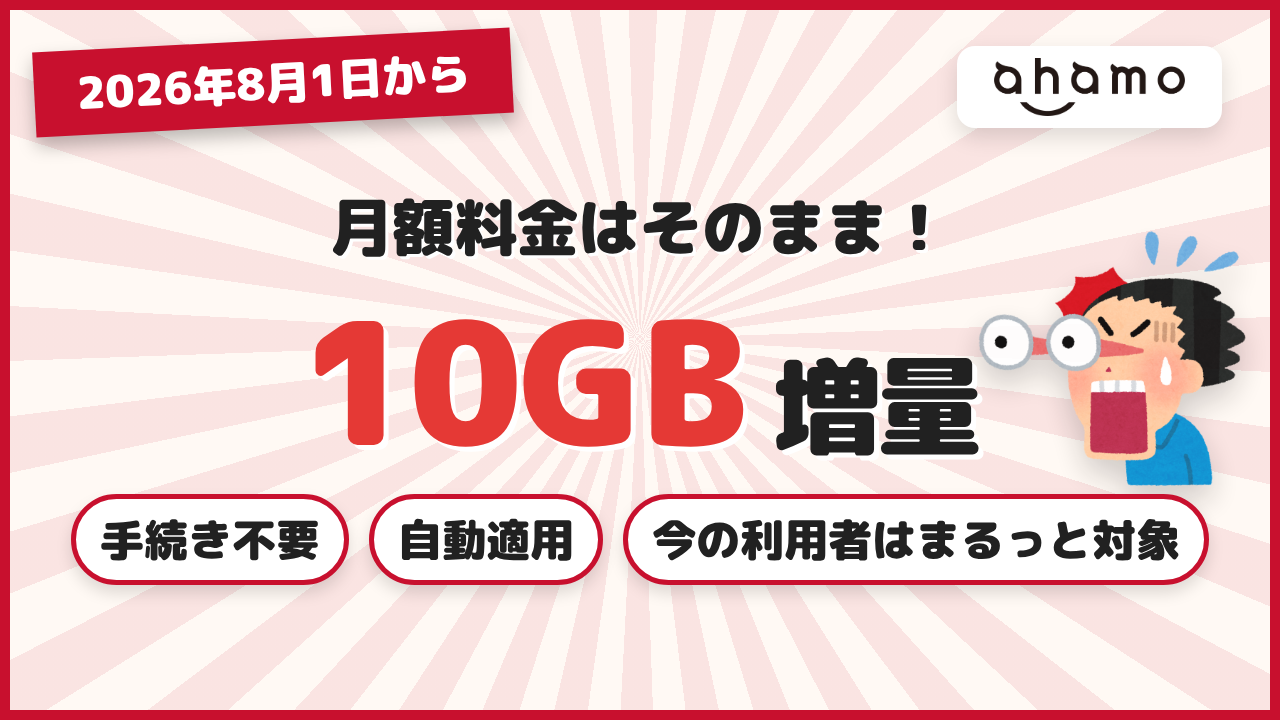
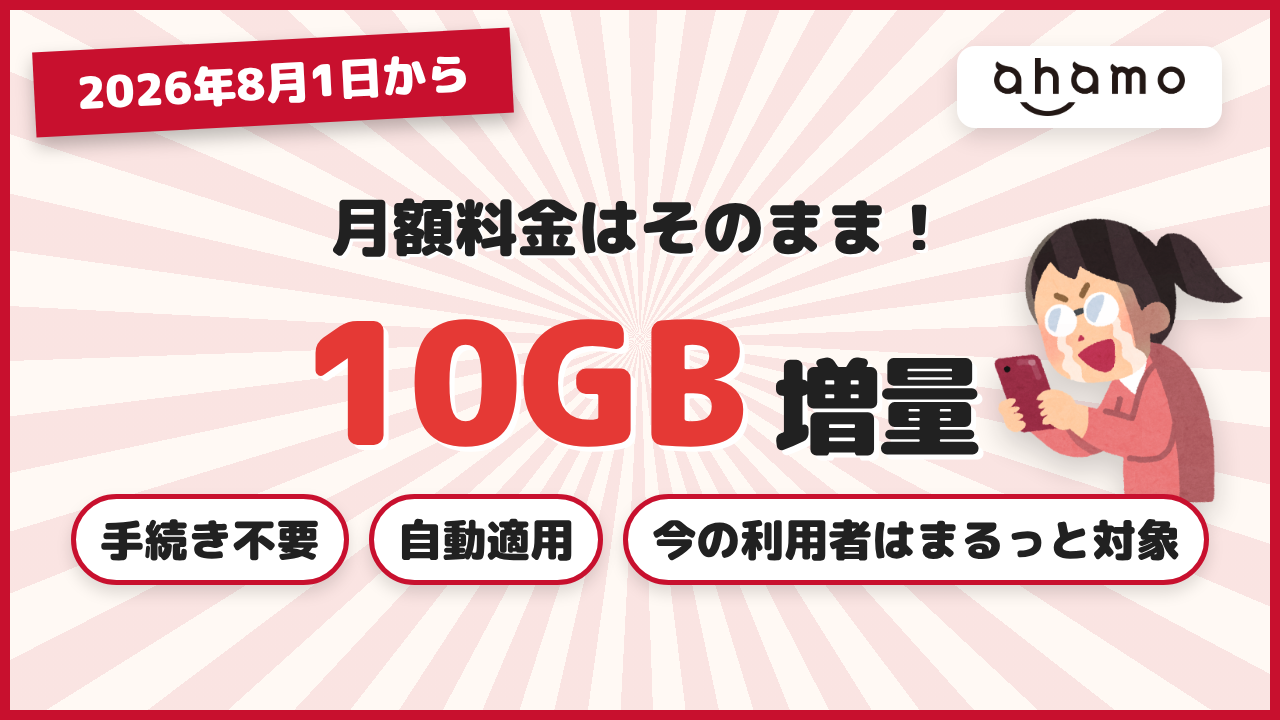
改修

Changed region(s): [[0.75, 0.3056, 0.9688, 0.7028]]

diff --git a/slides.html b/slides.html
@@ -69,7 +69,7 @@
     <h1><span>10GB</span> 増量</h1>
     <div class="std-chips"><b>手続き不要</b><b>自動適用</b><b>今の利用者はまるっと対象</b></div>
   </div>
-  <img class="std-hero" style="margin-top: 100px; height: 700px;" src="public/images/irasutoya/bikkuri_me_tobideru_man.png" alt="速報に驚く人">
+  <img class="std-hero" style="margin-top: 100px; height: 700px;" src="public/images/irasutoya/internet_kanki_woman1.png" alt="増量のニュースに喜ぶ人">
 </div>
 <!-- Slide ID: 2 -->
 <div class="slide-container std intro-title">
